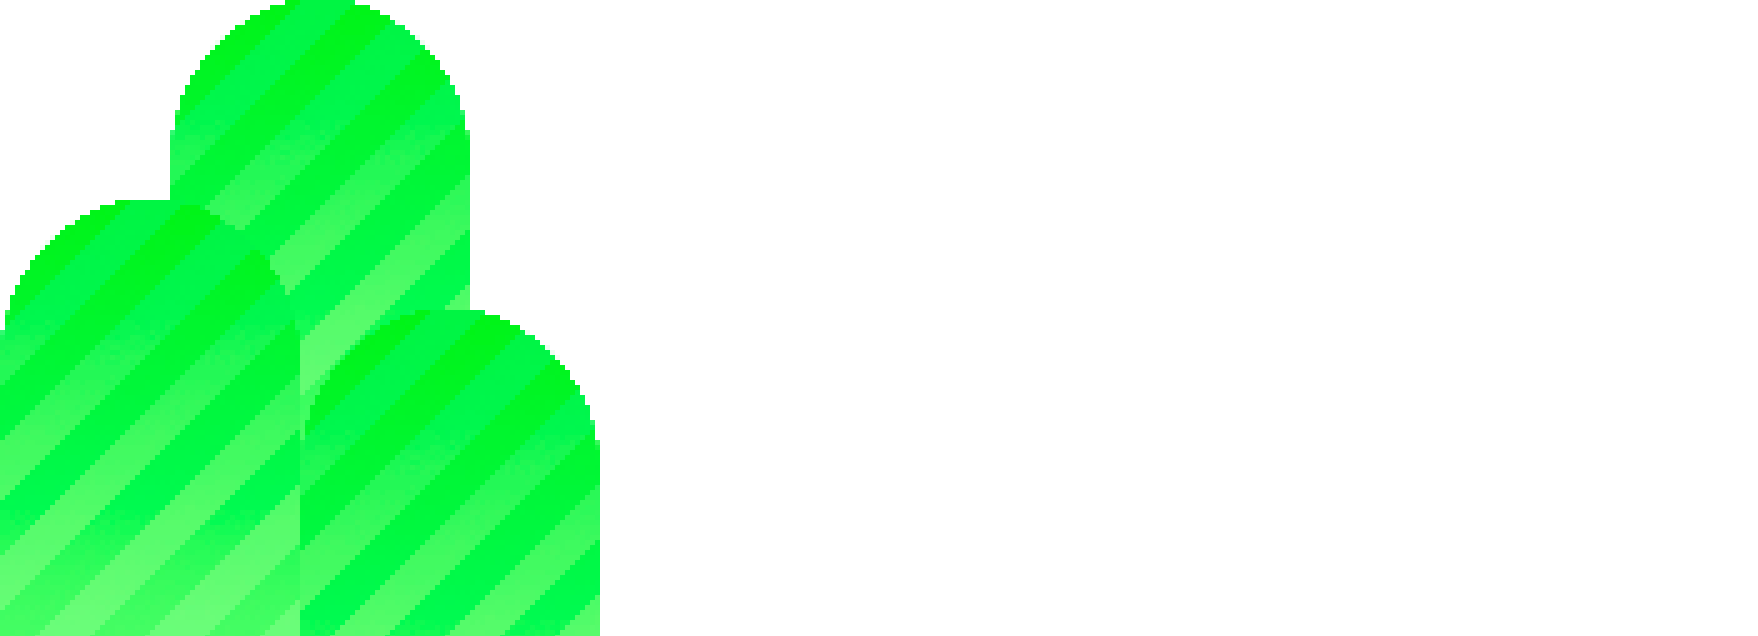
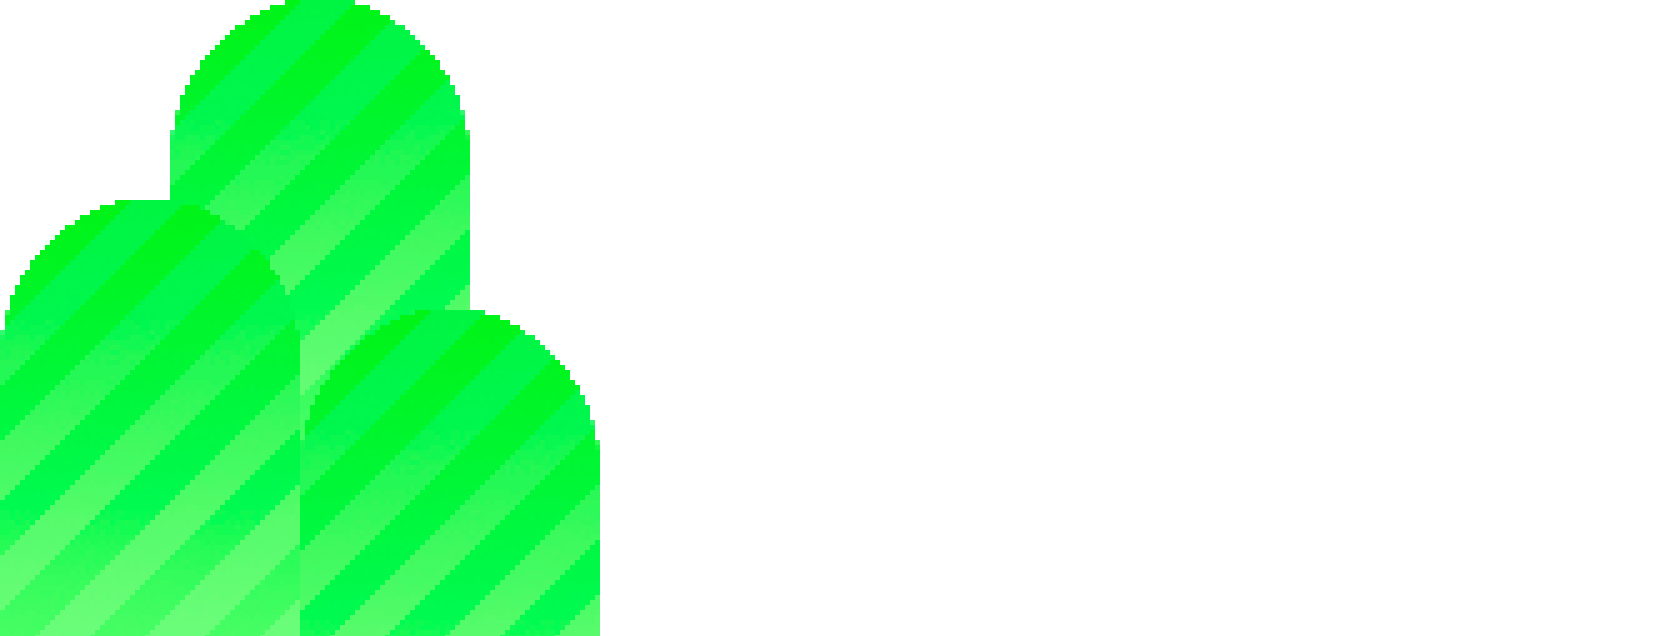
Update the hills, styled the hero area

Changed region(s): [[0.0307, 0.0, 0.3689, 1.0]]

diff --git a/assets/css/main.scss b/assets/css/main.scss
@@ -17,12 +17,10 @@ body {
     }
   } //.top-alert
 
-  header, .header {
-  } //header
 
   #sky {
     position: relative;
-    padding-bottom: 30px;
+    padding: 20px 0 30px 0;
     .sky {
       @include bg-absolute;
       background: #b8f9ff url('/assets/img/page-structure/sky/sky.png') repeat-x top left;
@@ -30,14 +28,58 @@ body {
     }
     .hill-back {
       @include bg-absolute;
-      height: 476px;
+      height: 351px;
       background: transparent url('/assets/img/page-structure/sky/hill-back.png') repeat-x top left;
     }
     .hill-front {
       @include bg-absolute;
+      left: -600px;
+      padding-right: 600px;
       height: 636px;
-      background: transparent url('/assets/img/page-structure/sky/hill-front.png') repeat-x top left;
+      background: transparent url('/assets/img/page-structure/sky/hill-front.png') repeat-x top center;
     }
+
+    .container {
+      header, .header {
+        ul.nav {
+          float: right;
+        }
+      } //header
+
+      #hero {
+        padding: 20px 0;
+        h1 {
+          font-size: 60px;
+          letter-spacing: -1px;
+          line-height: 62px;
+          span {
+            display: block;
+            font-weight: 300;
+          }
+        }
+        h3 {
+          color: $grey7;
+          font-weight: 300;
+          margin: 30px 0 40px 0;
+          line-height: 1.2em;
+          font-size: 1.6em;
+        }
+        #what-is-levelup {
+          p {
+            font-size: 1.2em;
+            line-height: 1.4em;
+            margin-bottom: 1.5em;
+            padding-right: 1em;
+          }
+        }
+
+      } // #hero
+
+
+    }
+
+
+
   } //#sky
 
   #ground {

diff --git a/assets/css/mixin.scss b/assets/css/mixin.scss
@@ -5,3 +5,12 @@
   width: 100%;
   z-index: -1;
 }
+
+$grey1: #e1e1e1;
+$grey2: #ccc;
+$grey3: #b7b7b7;
+$grey4: #a1a1a1;
+$grey5: #898989;
+$grey6: #707070;
+$grey7: #555;
+$grey8: #363636;
